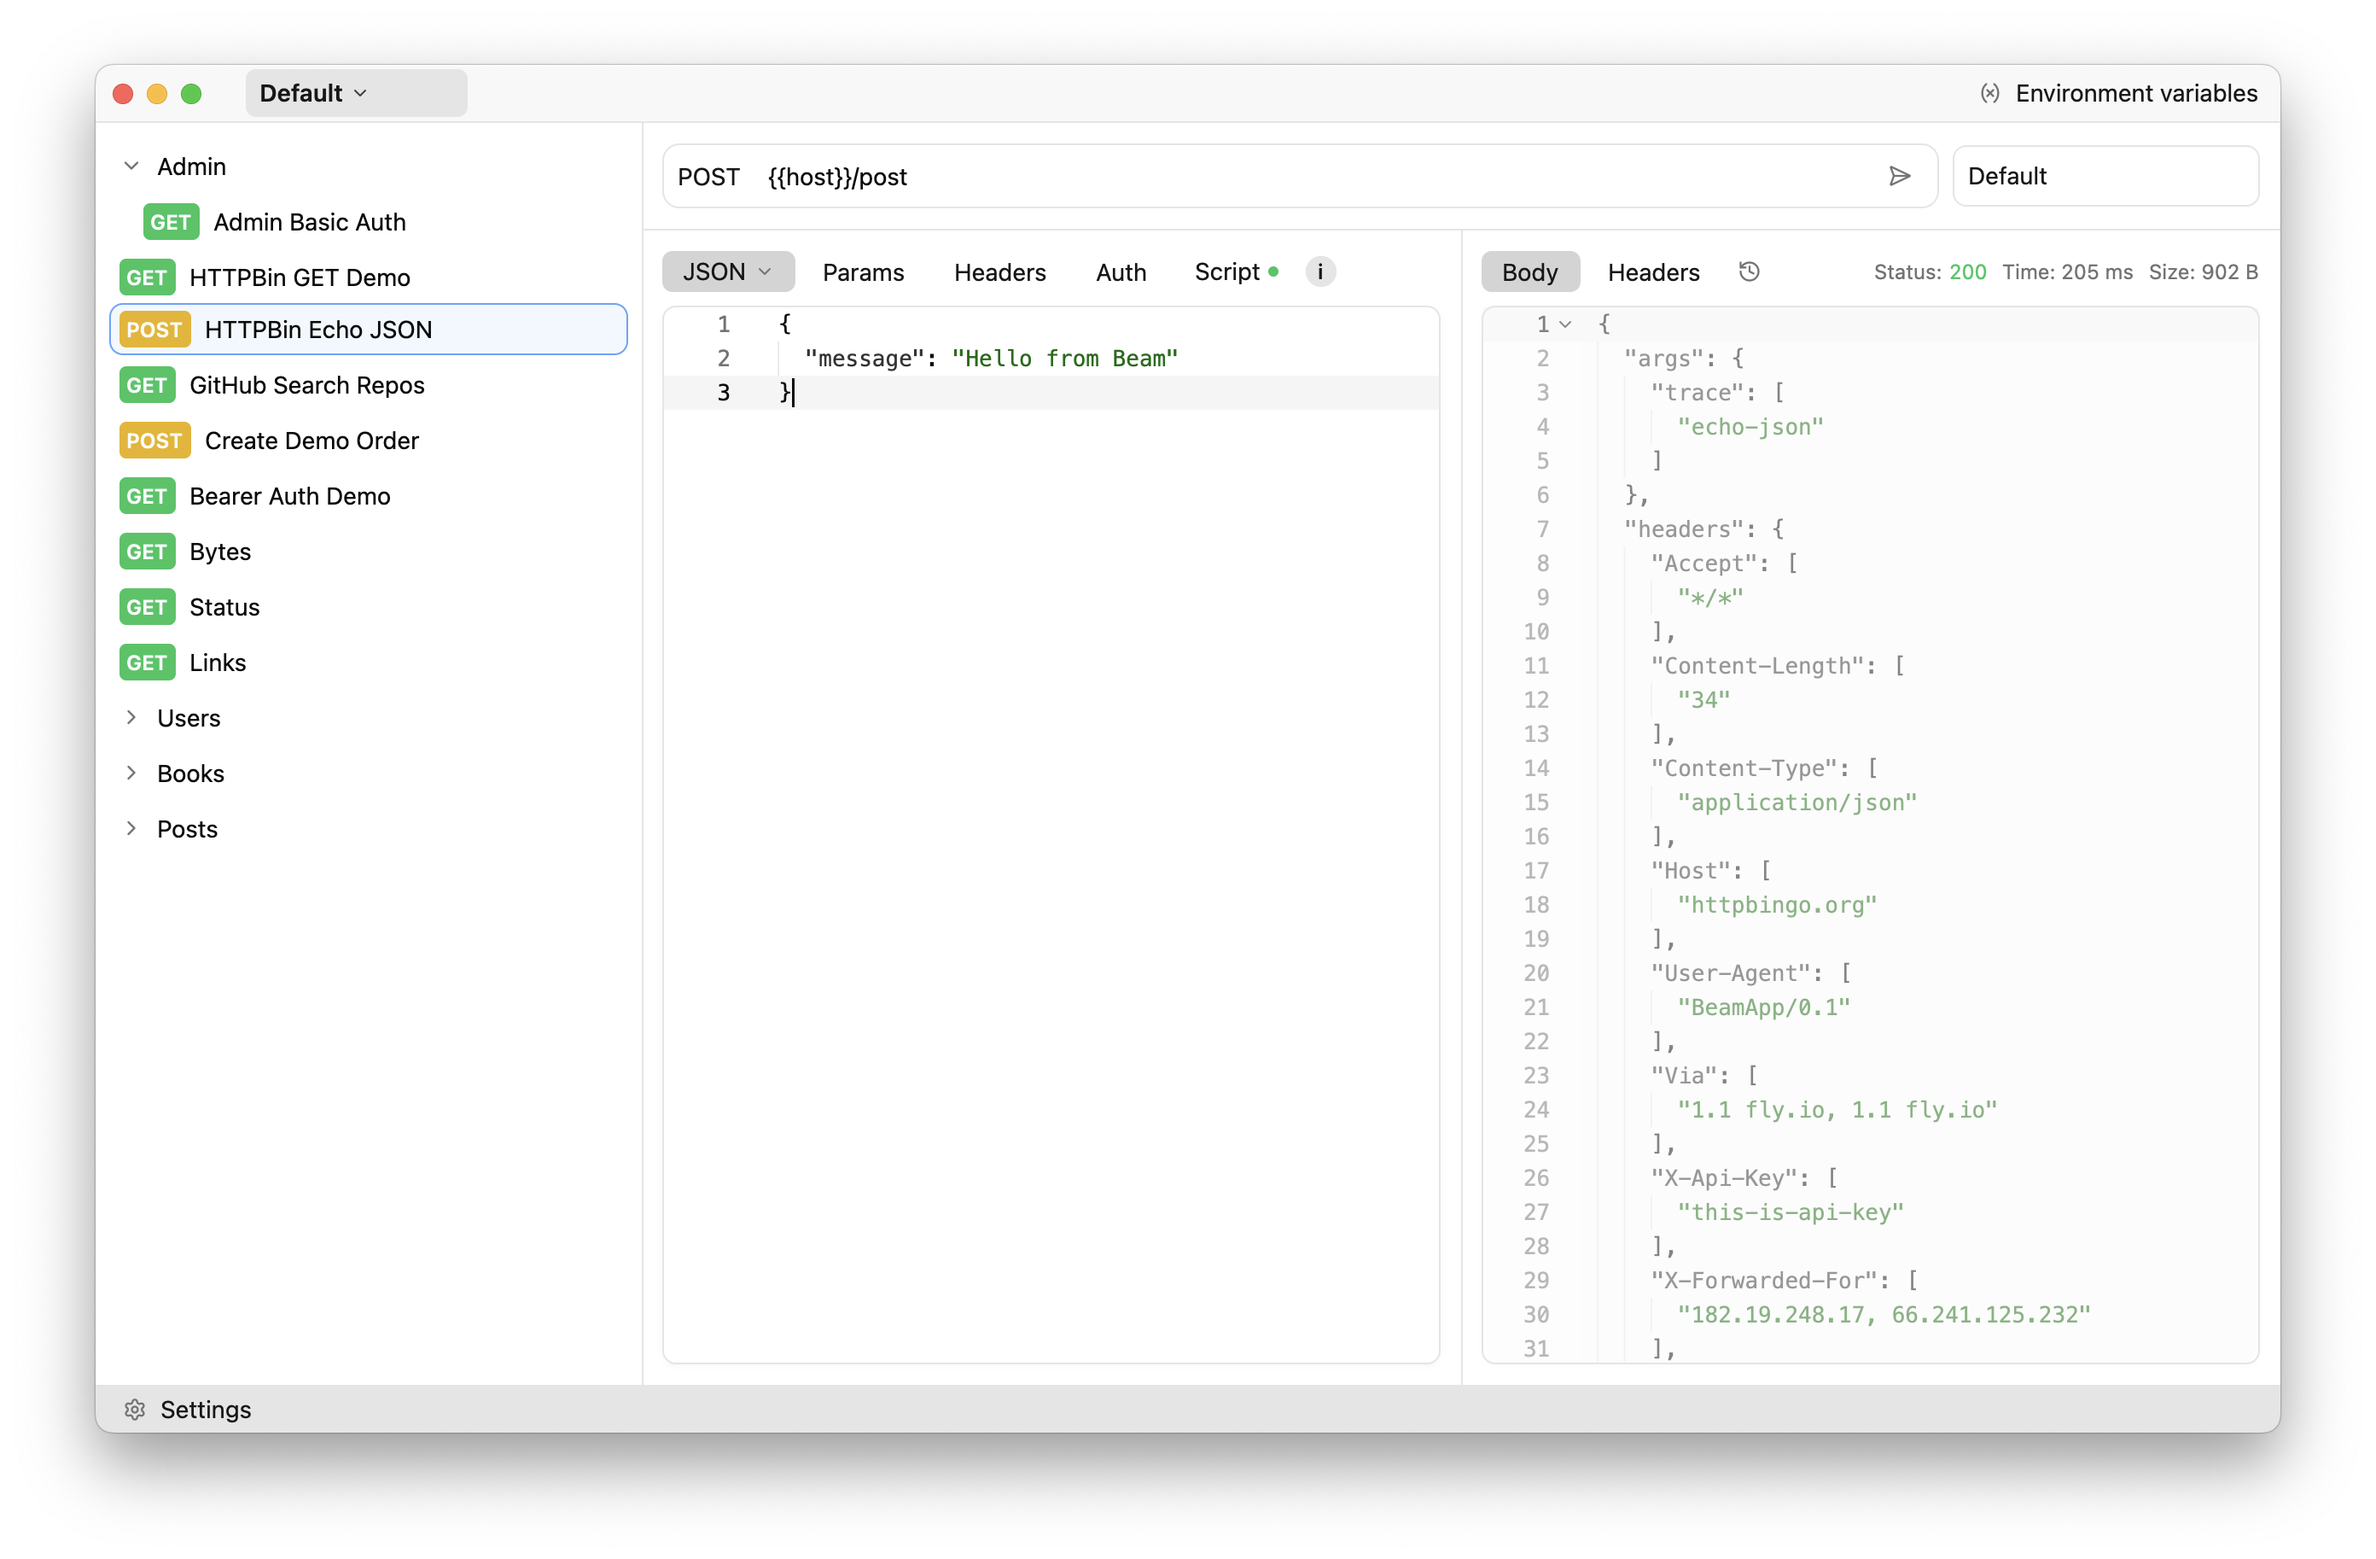
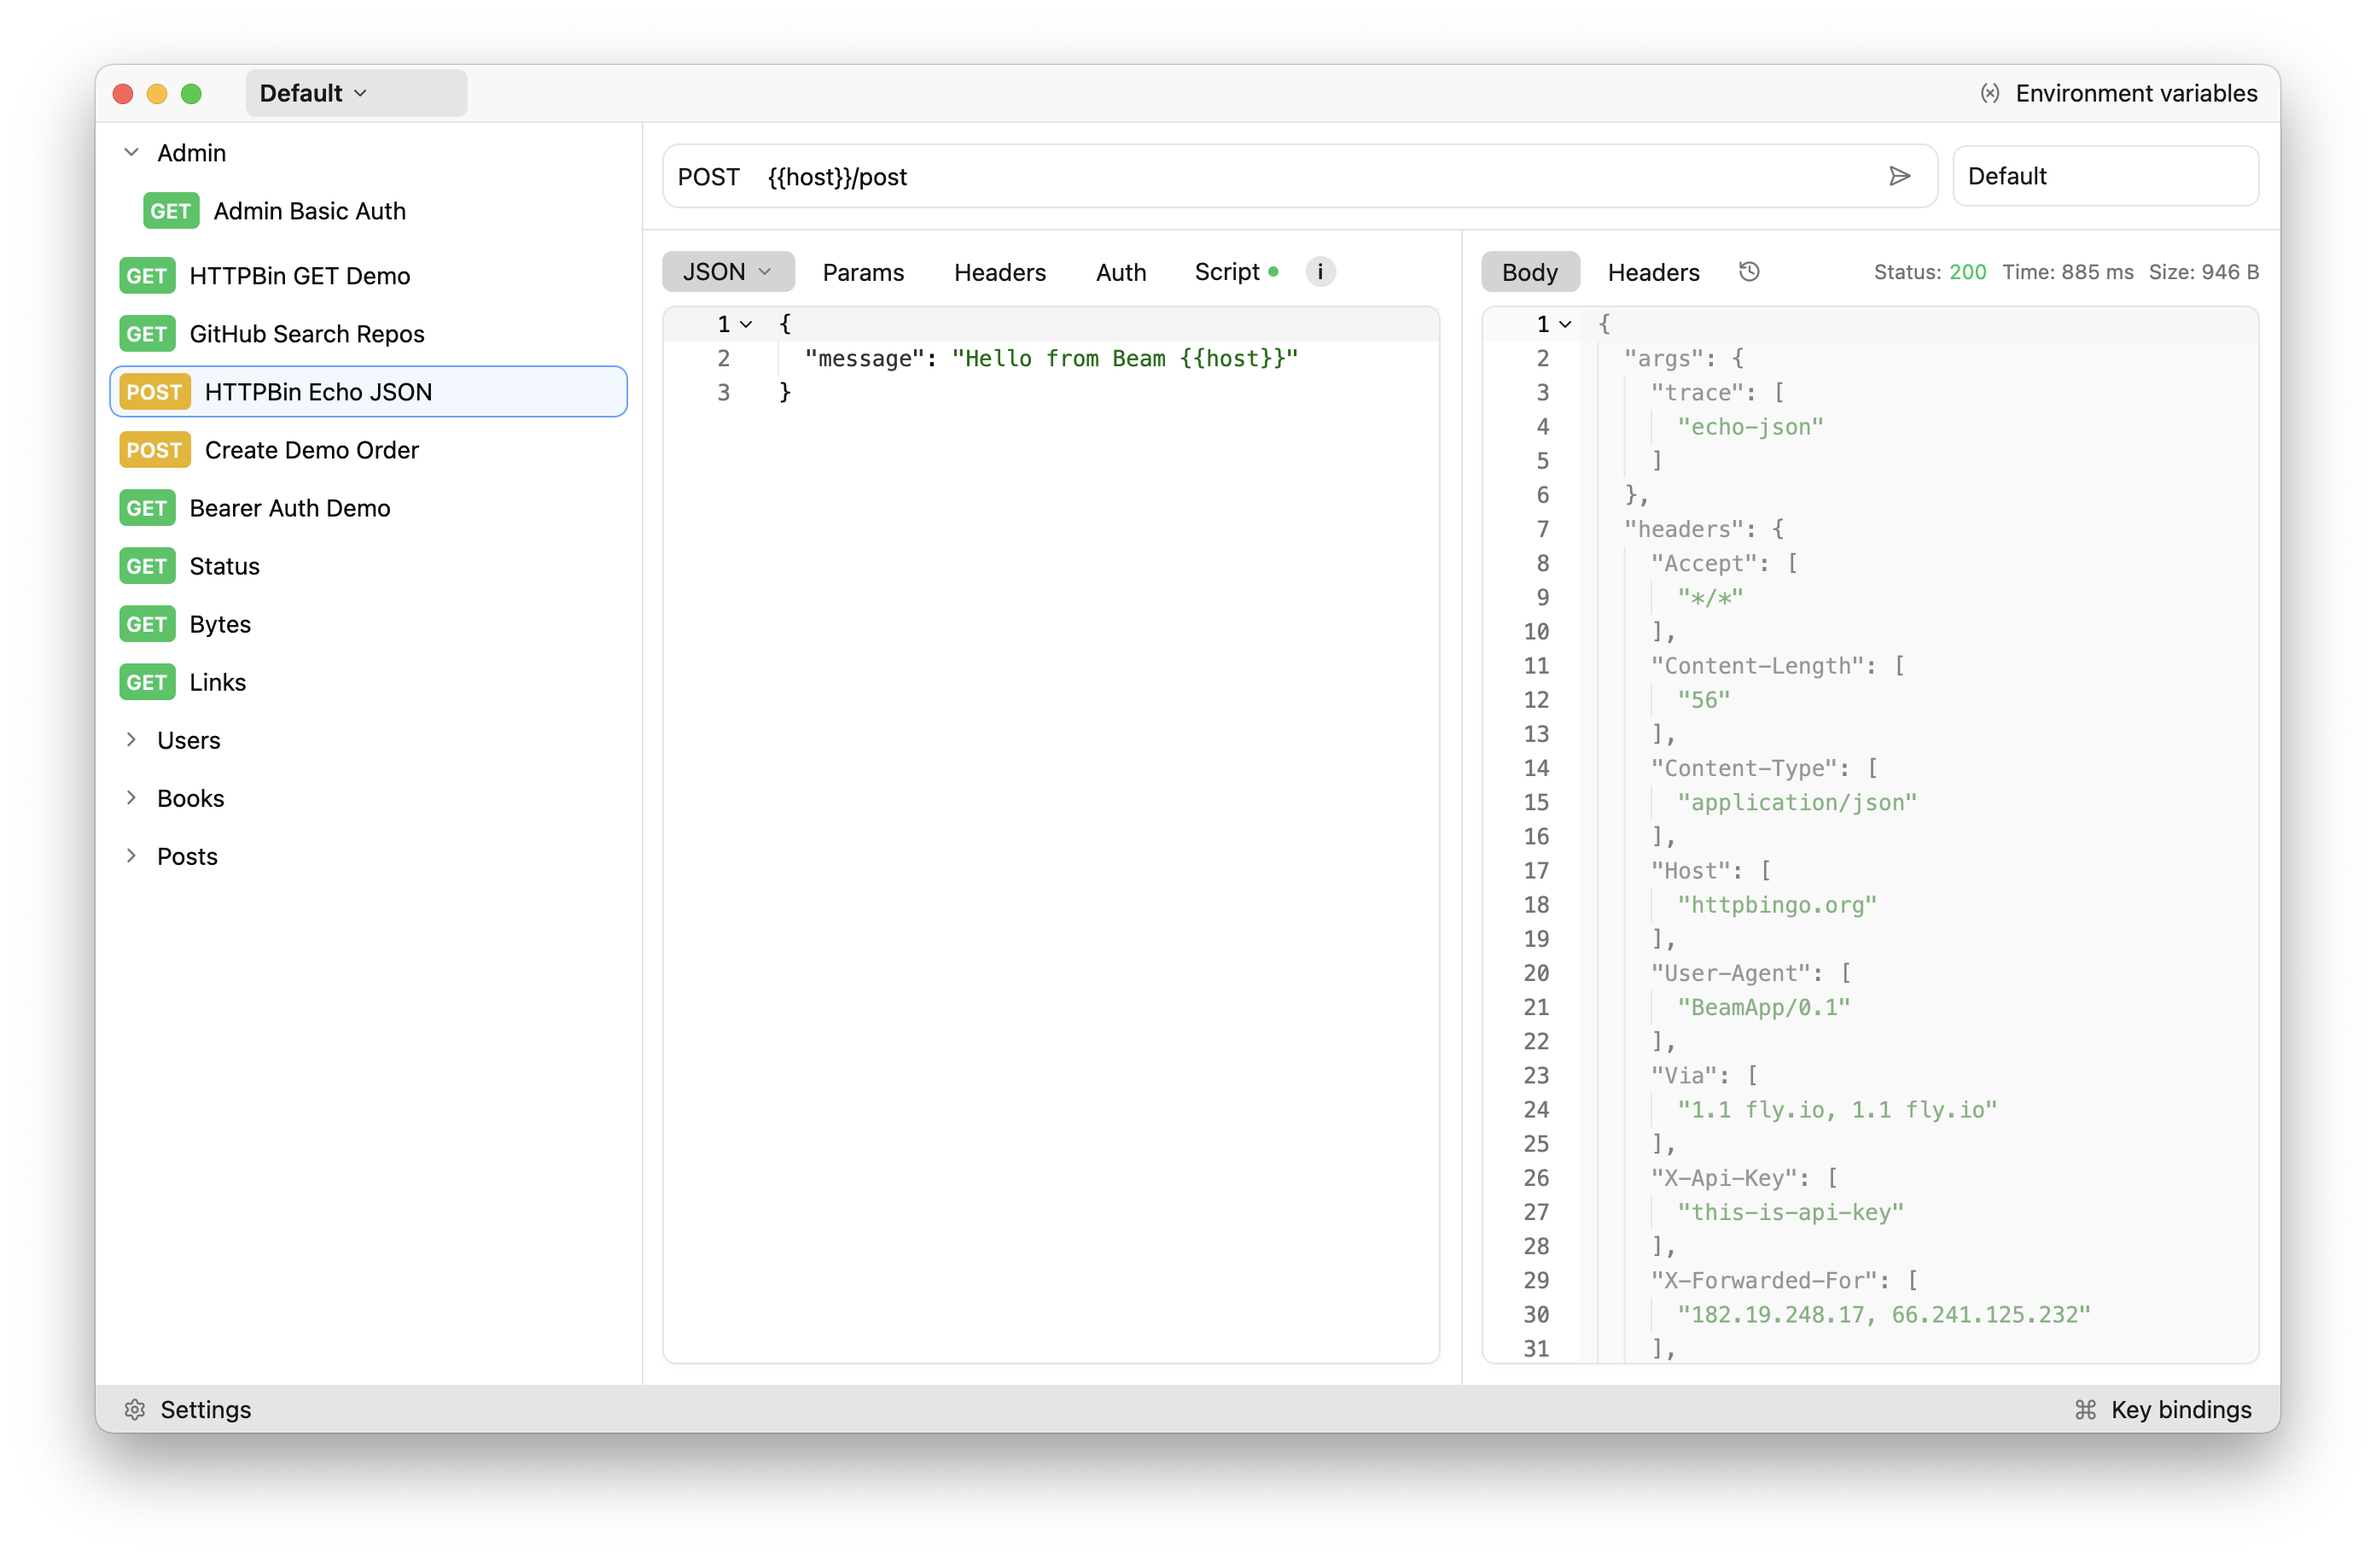
Adjust workspace container top padding

Changed region(s): [[0.0312, 0.0936, 0.1875, 0.5619], [0.5, 0.2185, 0.5312, 0.2497]]

diff --git a/src/ui.rs b/src/ui.rs
@@ -7818,7 +7818,9 @@ impl BeamView {
             .h_full()
             .w_full()
             .gap(px(2.0))
-            .p_2()
+            .pt_0()
+            .px_2()
+            .pb_2()
             .bg(cx.theme().background)
             .text_color(cx.theme().foreground);
 
